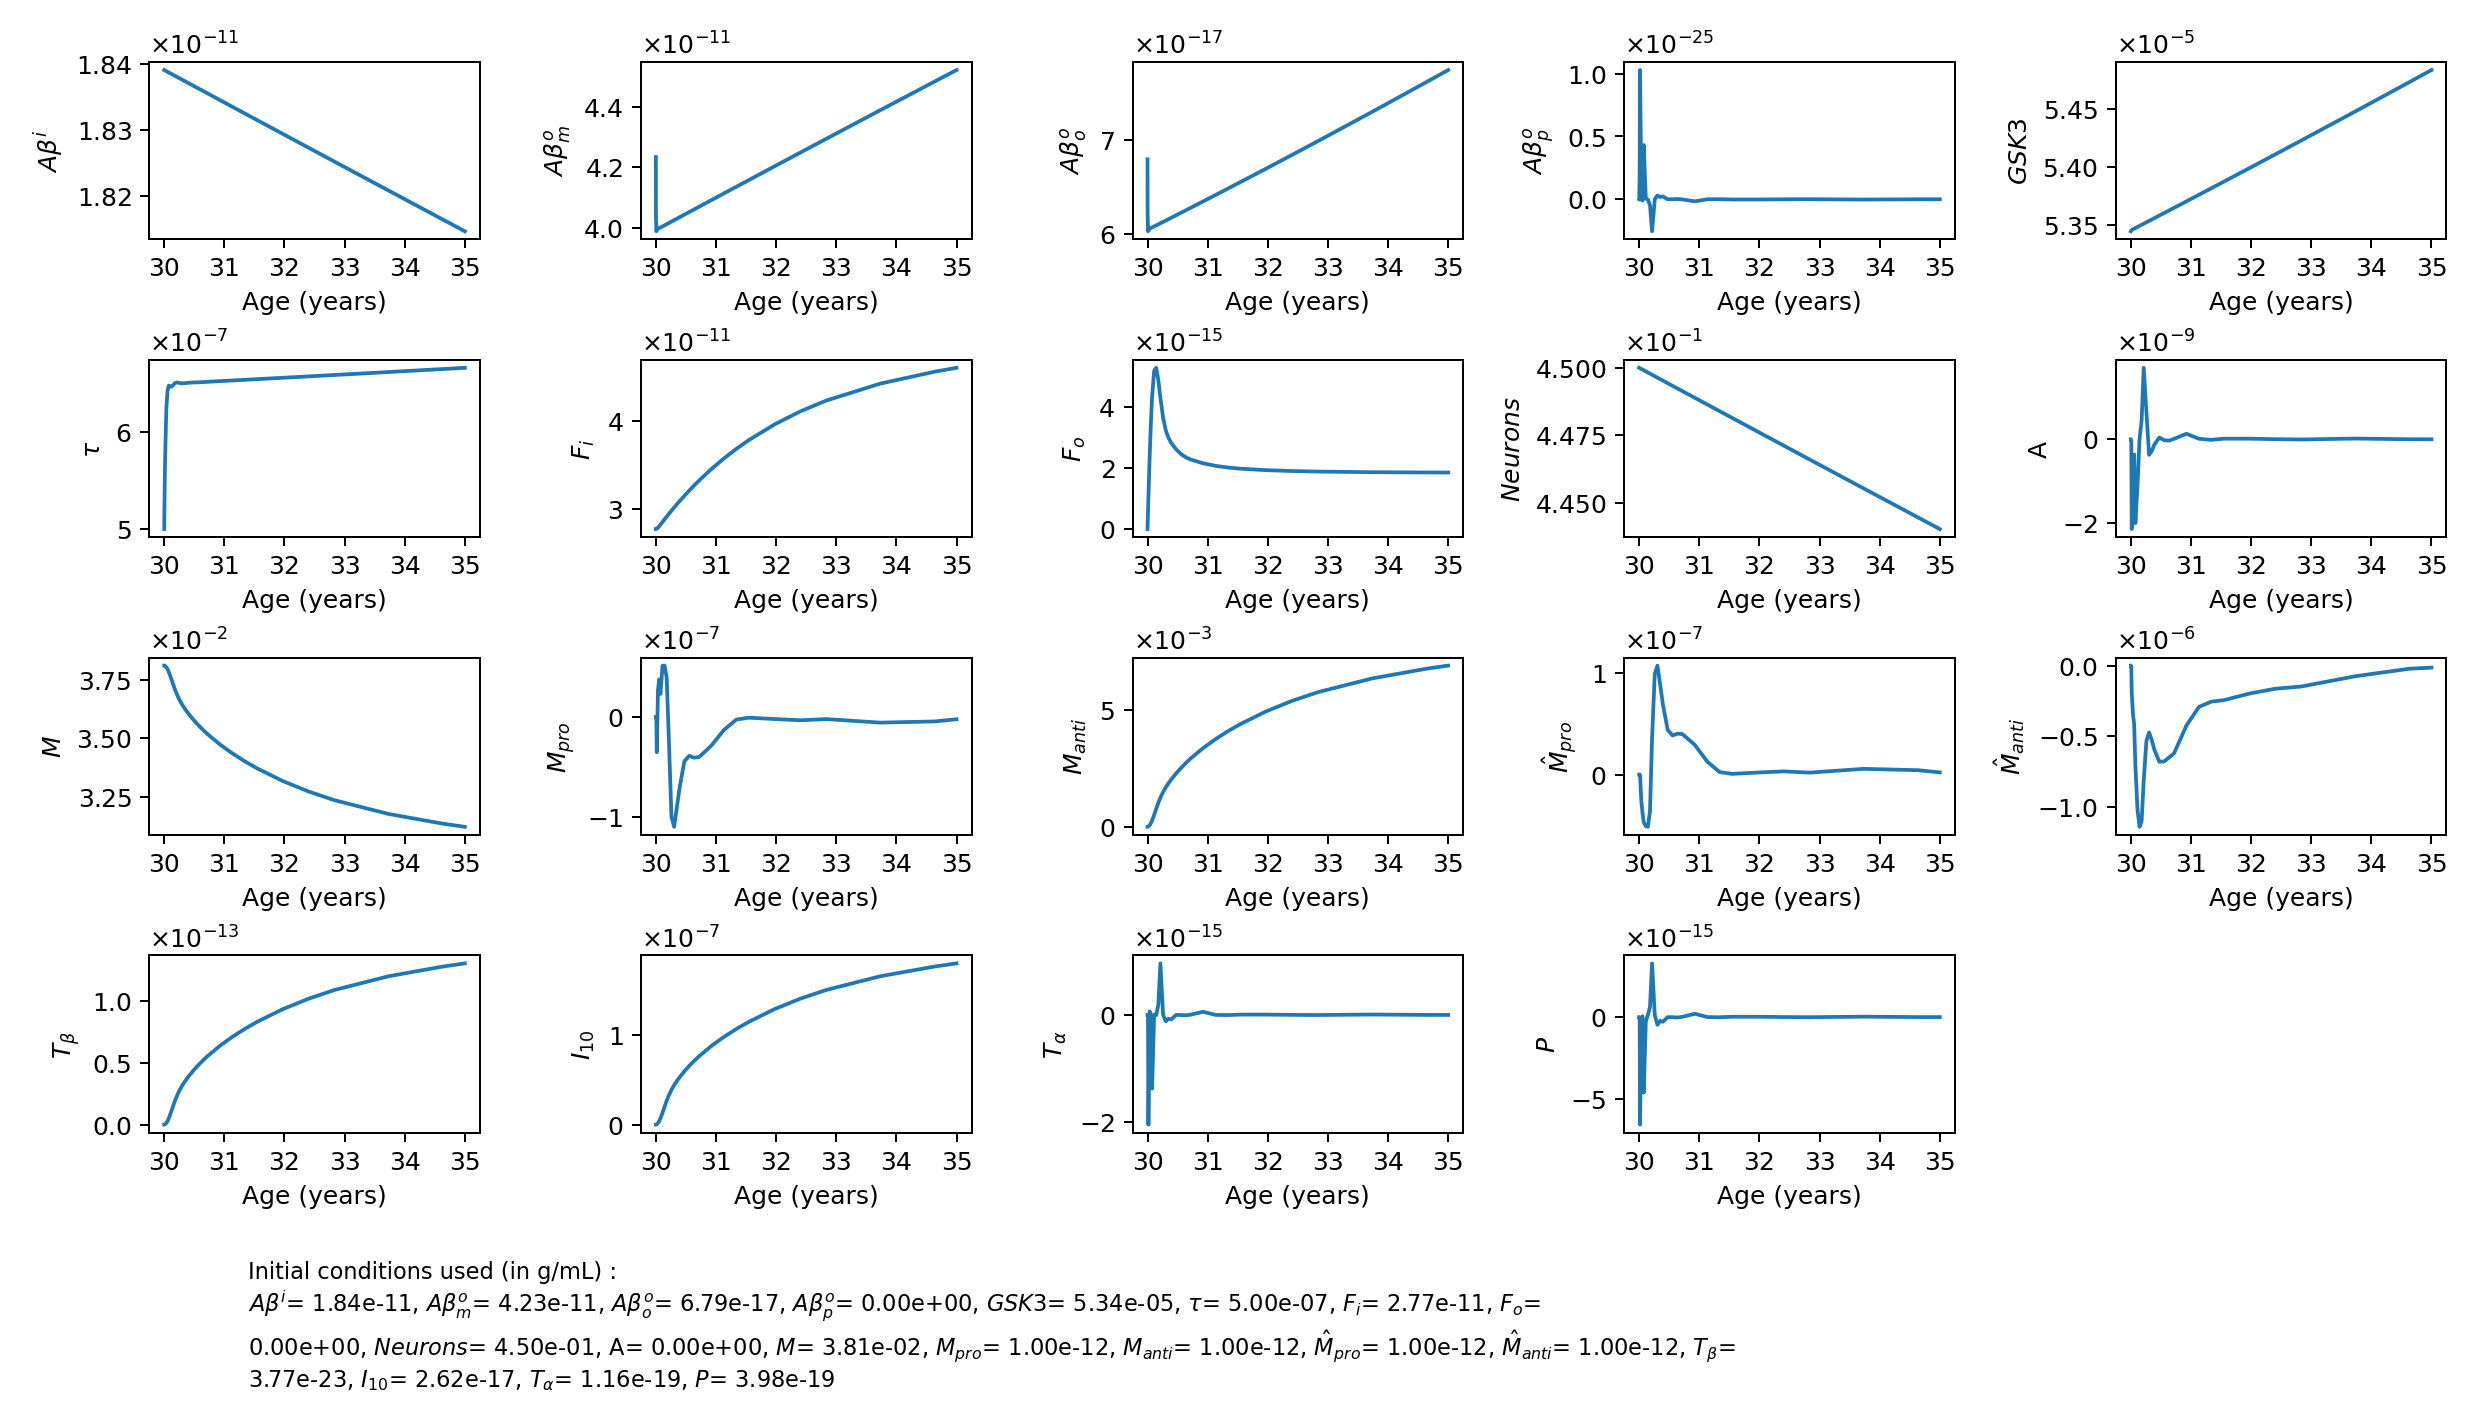
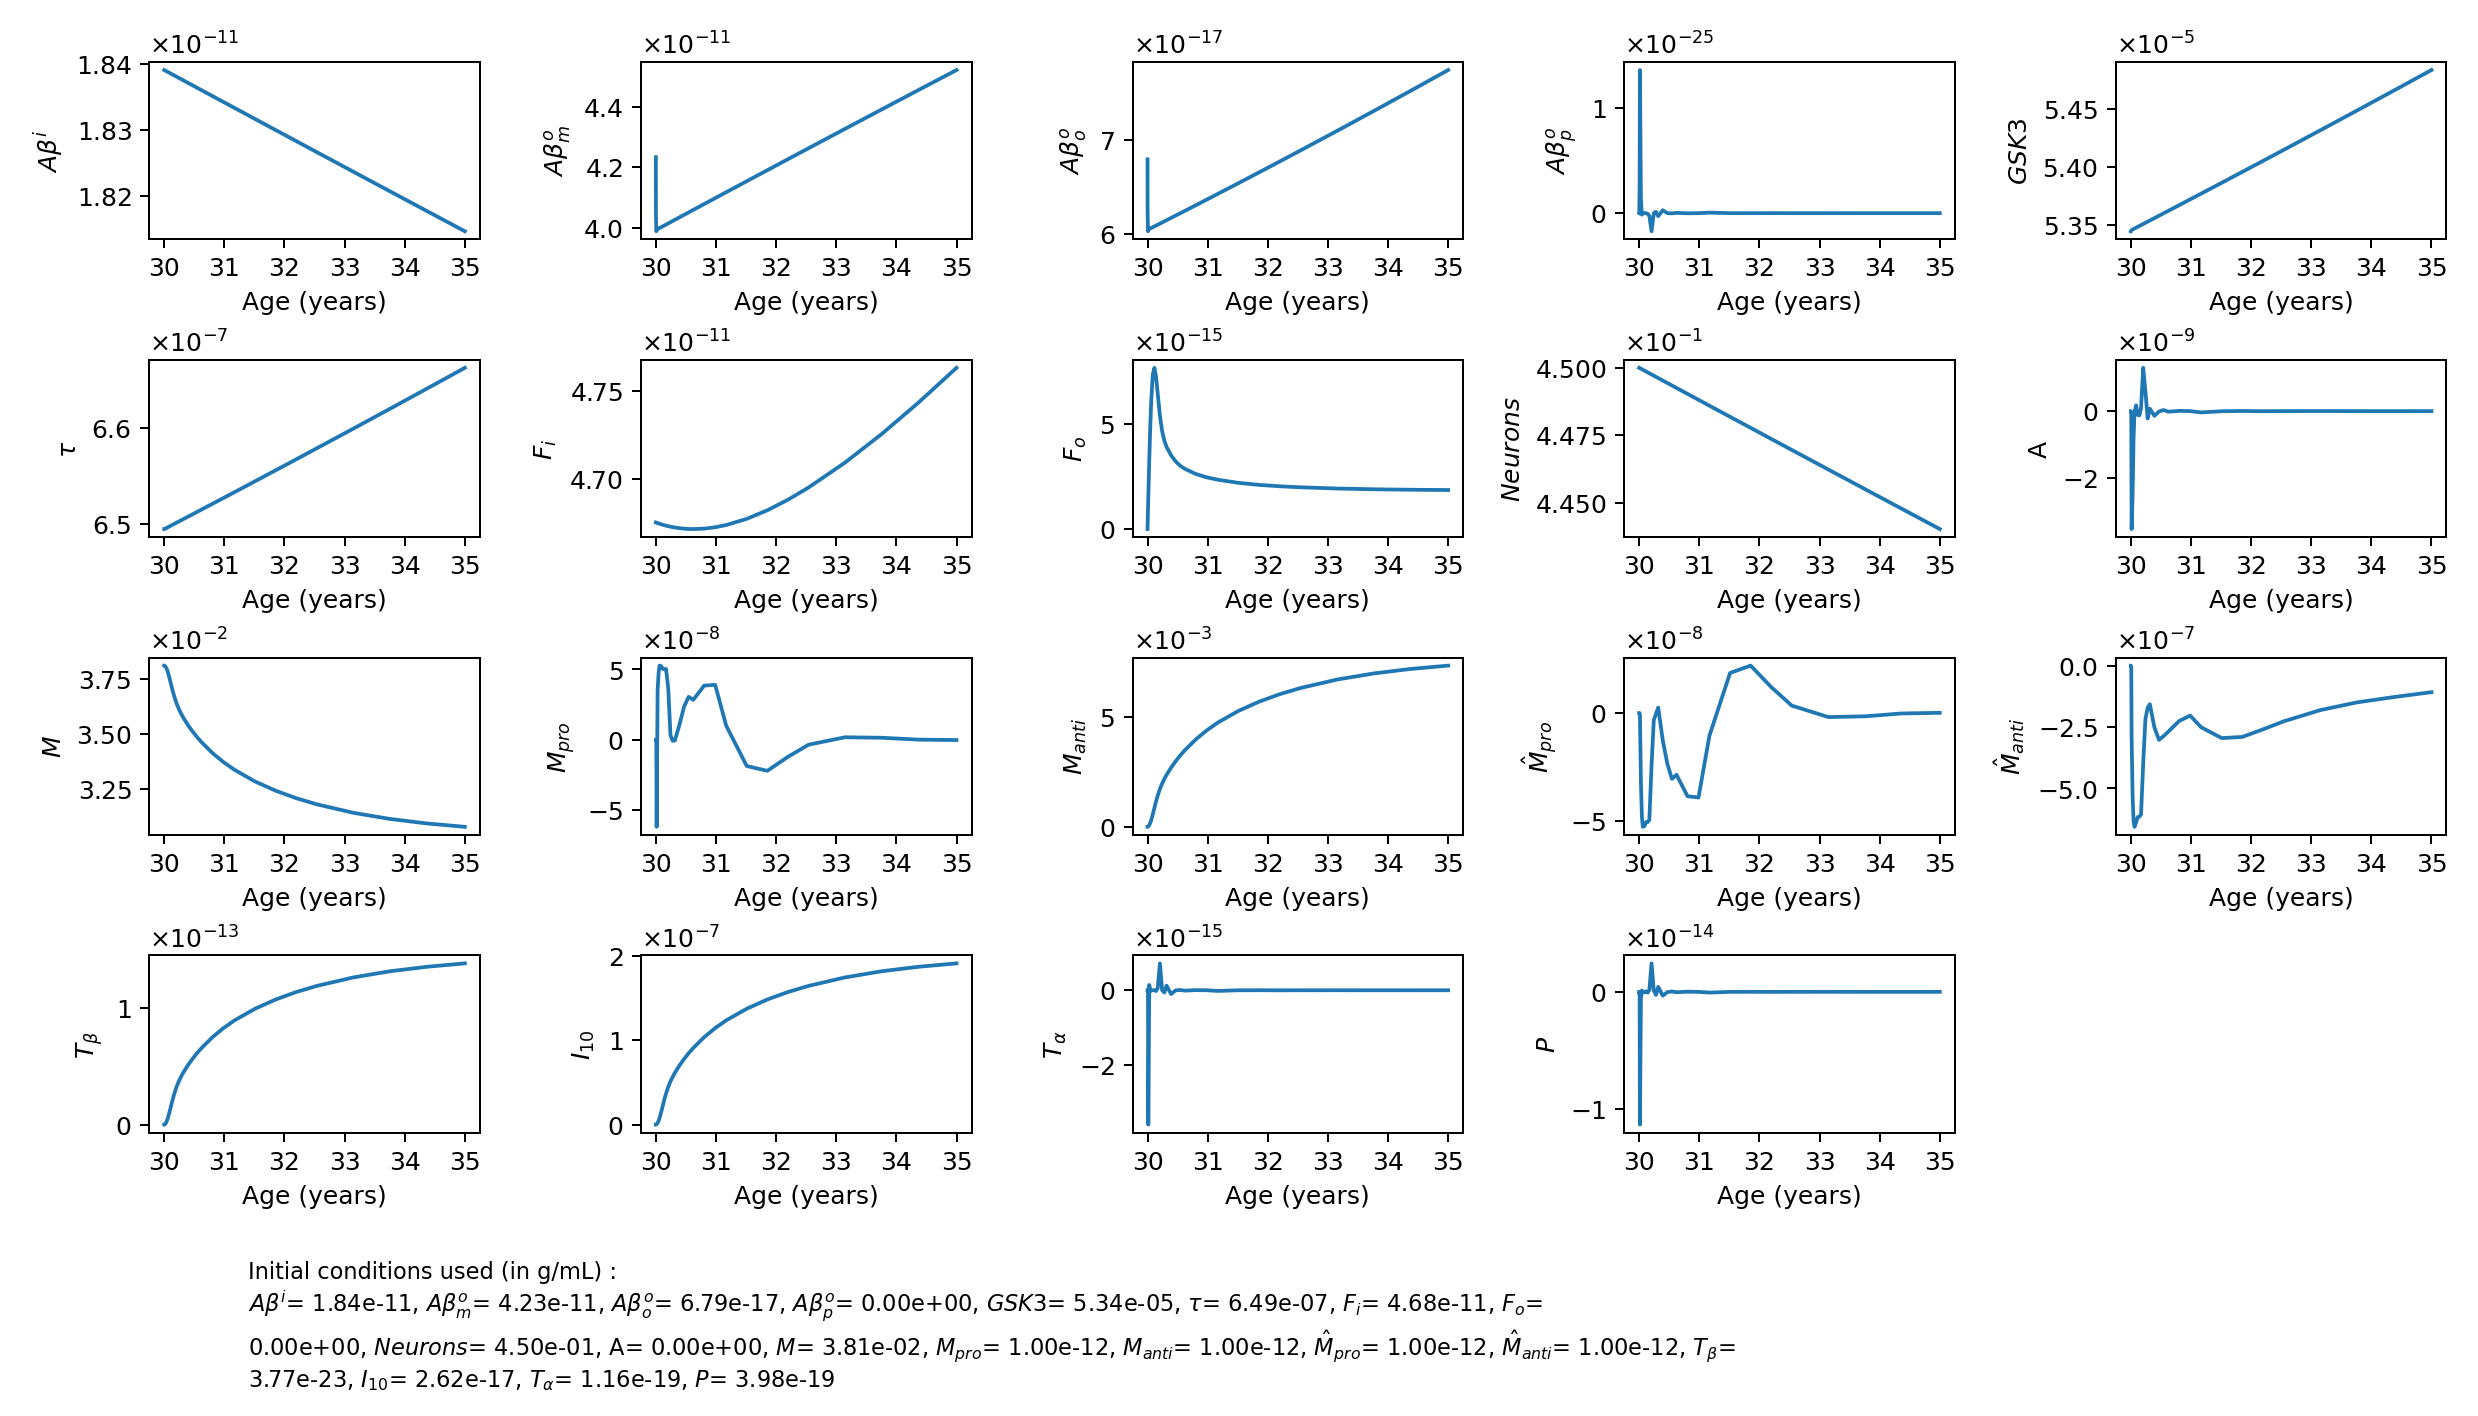
[8 Sept - 2] Version avec quelques changements. On tente d'obtenir des courbes qui font sens.

diff --git a/main.py b/main.py
@@ -25,24 +25,27 @@ y0[0] = p.lambda_ABi * (1 + p.AP * p.delta_APi) / p.d_ABi
 # y0[1] = 1e-11   # Todo ou  ??
 # y0[1] = (p.lambda_ABmo * (1 + p.AP * p.delta_APm) + p.lambda_AABmo) / (p.d_ABmo(AgeStart*365) + p.kappa_ABmoABoo *
 #                                                                        (1 + p.AP * p.delta_APmo))
-A = p.kappa_ABmoABoo * (1 + p.AP * p.delta_APmo)
-B = p.d_ABmo(AgeStart*365)
-C = -(p.lambda_ABmo * (1 + p.AP * p.delta_APm) + p.lambda_AABmo)
-y0[1] = (-B + math.sqrt((B**2) - (4 * A * C))) / (2 * A)
+# A = p.kappa_ABmoABoo * (1 + p.AP * p.delta_APmo)
+# B = p.d_ABmo(AgeStart*365)
+# C = -(p.lambda_ABmo * (1 + p.AP * p.delta_APm) + p.lambda_AABmo)
+# y0[1] = (-B + math.sqrt((B**2) - (4 * A * C))) / (2 * A)
 # Prendre + donne nég. Avec AgeStart=30, = 4.233652303020852e-11.
+# Par expérience, pour pas avoir de différence au départ, prendre (22-09-07_..._12 vs _13):
+y0[1] = 4e-11
 
 # AB_o^o (Amyloid-beta oligomers extracell.)
 # y0[2] = 5e-13  # 0
 # y0[2] = p.kappa_ABmoABoo * (1 + p.AP * p.delta_APmo) * (y0[1] ** 2) / (p.d_ABoo + p.kappa_ABooABpo)
-A = p.kappa_ABooABpo
-B = p.d_ABoo
-C = - p.kappa_ABmoABoo * (1 + p.AP * p.delta_APmo) * (y0[1] ** 2)
-y0[2] = (-B + math.sqrt((B**2) - (4 * A * C))) / (2 * A)
+# A = p.kappa_ABooABpo
+# B = p.d_ABoo
+# C = - p.kappa_ABmoABoo * (1 + p.AP * p.delta_APmo) * (y0[1] ** 2)
+# y0[2] = (-B + math.sqrt((B**2) - (4 * A * C))) / (2 * A)
 # Prendre + donne nég. Avec AgeStart=30, = 6.791648132775663e-17.
+# Par expérience, pour pas avoir de différence au départ, prendre (22-09-07_..._12 vs _13):
+y0[2] = 6e-17
 
 # AB_p^o (Amyloid-beta plaque extracell.)
-y0[3] = 0  # 1e-10
-
+y0[3] = 1e-10
 
 # G (GSK3)
 # y0[4] = p.lambda_InsG / p.d_G  # ~= 0.16168
@@ -50,9 +53,15 @@ y0[4] = p.G_0   # ~ 5.344e-05 (for women)
 
 # tau (tau proteins)
 # y0[5] = (p.lambda_tau + p.lambda_Gtau)/p.d_tau
-y0[5] = 6e-7
+# y0[5] = 6e-7
 # (p.lambda_tau + p.lambda_Gtau * (y0[4] / p.G_0))/p.d_tau => avant fig _39
 # = 2.57e-5    # Hao: Concentration of tau proteins is, in health, 137 pg/ml and, in AD, 490 pg/ml
+A = p.kappa_tauFi
+B = p.d_tau
+C = -(p.lambda_tau + p.lambda_Gtau)
+y0[5] = (-B + math.sqrt((B**2) - (4 * A * C))) / (2 * A)
+# Prendre "+" donne nég. Donc, prend "-" et donne ~ 6.4947e-07.
+
 
 # F_i (NFT inside the neurons)
 y0[6] = p.kappa_tauFi * (y0[5] ** 2) / p.d_Fi
@@ -112,8 +121,8 @@ y0[18] = (p.kappa_MproP * y0[11] + p.kappa_MhatproP * y0[13] + p.kappa_AP * y0[9
 AgeEnd = 35
 decades = int((AgeEnd - AgeStart) / 10)
 
-# LSODA converge pas...
-# sol = solve_ivp(eqns.ODEsystem, [365 * AgeStart, 365 * AgeEnd], y0, "LSODA", max_step=1e4, min_step=1e3)
+
+# sol = solve_ivp(eqns.ODEsystem, [365 * AgeStart, 365 * AgeEnd], y0, "LSODA")
 # method = "solve_ivp_LSODA"
 
 sol = solve_ivp(eqns.ODEsystem, [365 * AgeStart, 365 * AgeEnd], y0, "BDF")
@@ -173,7 +182,7 @@ else:  # p.AP == 0:
 
 my_path = os.path.abspath('Figures')
 plt.savefig(os.path.join(my_path, "Figure_" + method + "_" + str(AgeEnd - AgeStart) + "y_22-09-08_APOE" + APOE + "_" +
-                         sex + "_12.png"), dpi=180)
+                         sex + "_15.png"), dpi=180)
 # _20 ... _27 : Figures produitent avec Nicolas.
 # 34 : 1ere avec modif simon
 

diff --git a/parameters.py b/parameters.py
@@ -200,7 +200,7 @@ class Parameters():
         # self.lambda_InsG = 0.18e-6 * 47000 * 1440 * 1.077 * 0.005  # approx 0.065602
         # TODO: Test pour que G soit en équilibre à G_0. Sinon grande différence entre G_0 et équilibre.
         #    lambda_InsG = d_G * G_0 . Résultat "Figure_solve_ivp_Radau_1y_22-09-08_APOE+_F_04.png" Pas beau :(
-        #    Okay avec BDF. Voir "Figure_solve_ivp_BDF_5y_22-09-08_APOE+_F_11.png"
+        #    Okay avec BDF. Voir "Figure_solve_ivp_BDF_5y_22-09-08_APOE+_F_11.png" et suivantes
         #    À confirmer et mettre correctement si accepté.
         self.lambda_InsG = (math.log(2) / (41 / 24)) * (1104e-12 * 47000 * self.rho_cerveau)  # ~ 2.1685e-05
         """Creation rate of GSK-3 induced by the insulin (g/mL/day)"""
@@ -221,6 +221,8 @@ class Parameters():
         self.d_G = math.log(2) / (41 / 24)  # approx 0.4057
         # TODO: Test pour que G soit en équilibre à G_0. Sinon grande différence entre G_0 et équilibre.
         #    d_G = lambda_InsG / G_0 . Résultat "Figure_solve_ivp_Radau_5y_22-09-08_APOE+_F_10.png" Pas beau :(
+        #    Okay avec BDF, donne même chose que "Figure_solve_ivp_BDF_5y_22-09-08_APOE+_F_11.png", où modif faite
+        #    sur lambda_InsG.
         # self.d_G = self.lambda_InsG / (1104e-12 * 47000 * self.rho_cerveau)
         """Degradation rate of GSK-3 (/day)."""
 

diff --git a/equations.py b/equations.py
@@ -60,6 +60,8 @@ def ODEsystem(t, y):
               - p.d_ABoo * y[2]
 
     # Amyloid-beta plaque outside the neurons (AB_p^o)
+    # Deuxième terme problématique pour les plaques (22-09-08_..._14 vs _15 ; 15 retire le terme), mais règle pas les
+    # autres. Donc, vrai problème ailleurs.
     dydt[3] = p.kappa_ABooABpo * (y[2] ** 2) - ((p.d_MantiABpo * y[12] + p.d_hatMantiABpo * y[14])
                                                 * (1 + p.AP * p.delta_APdp) * (y[3] / (y[3] + p.K_ABpo)))
 
